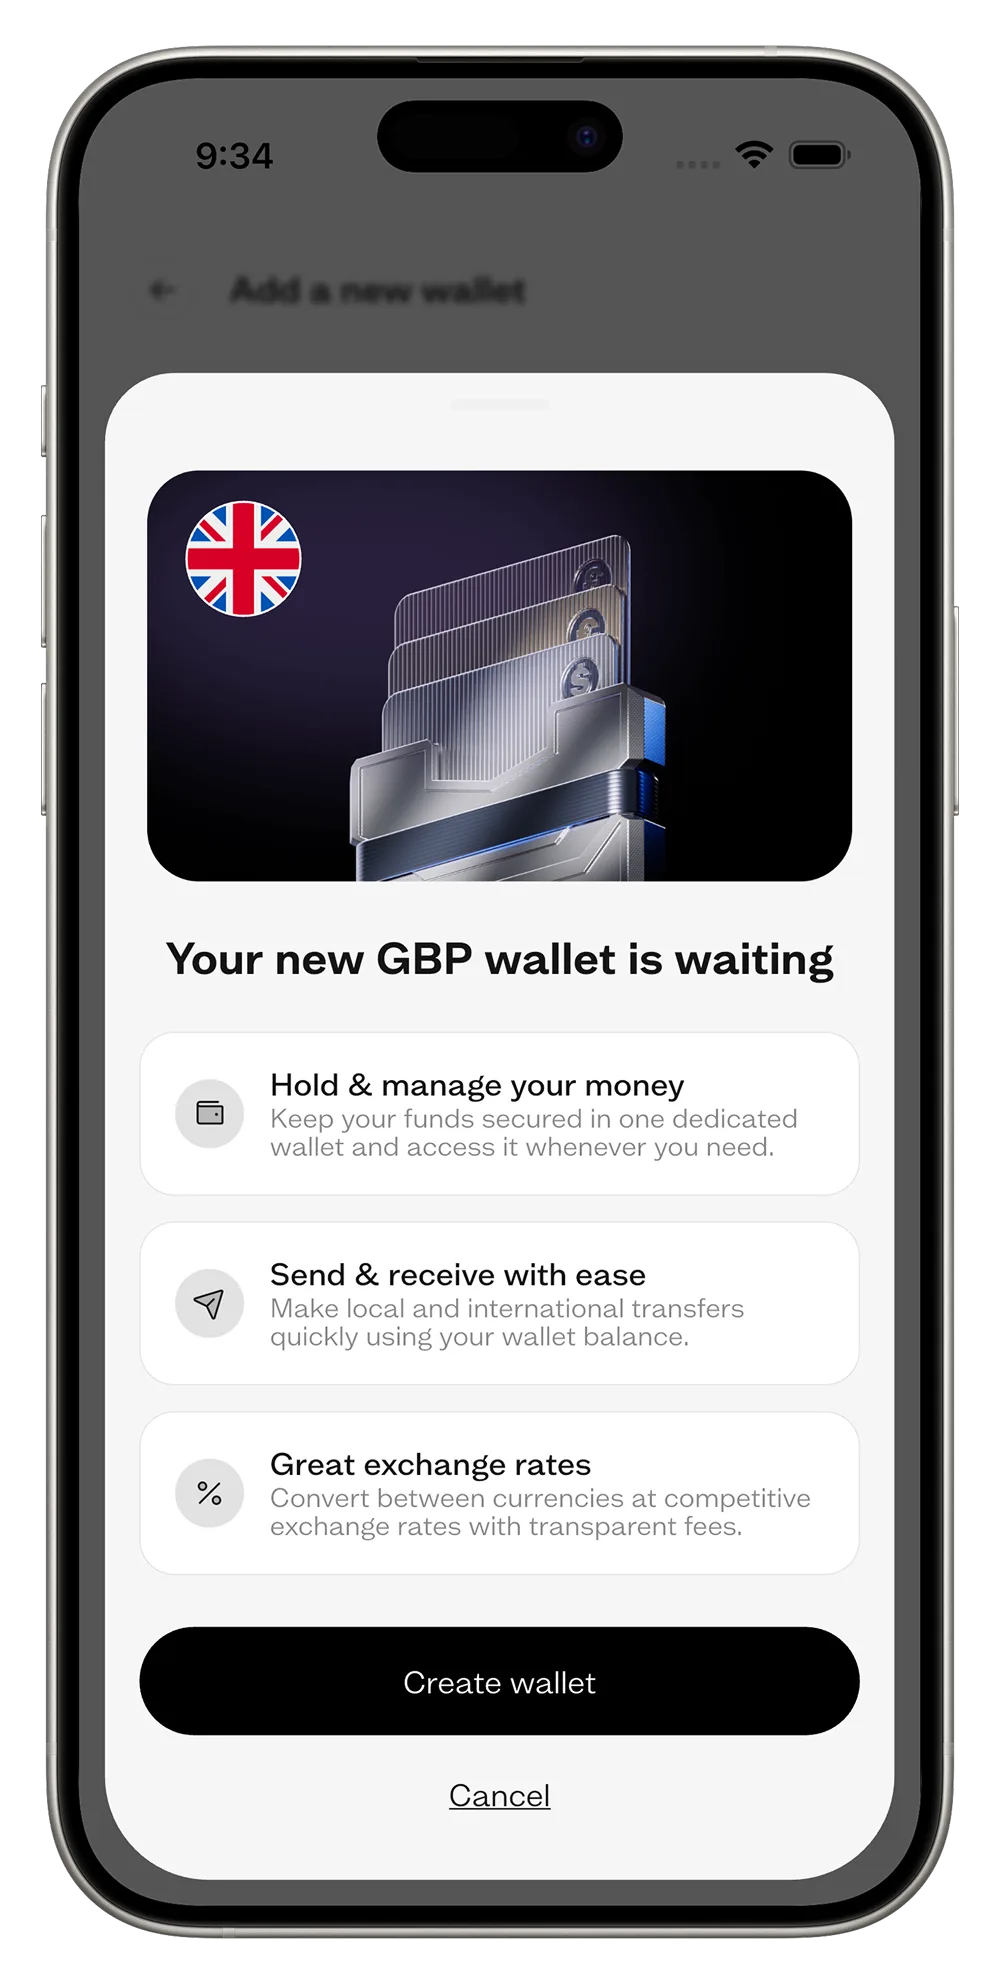
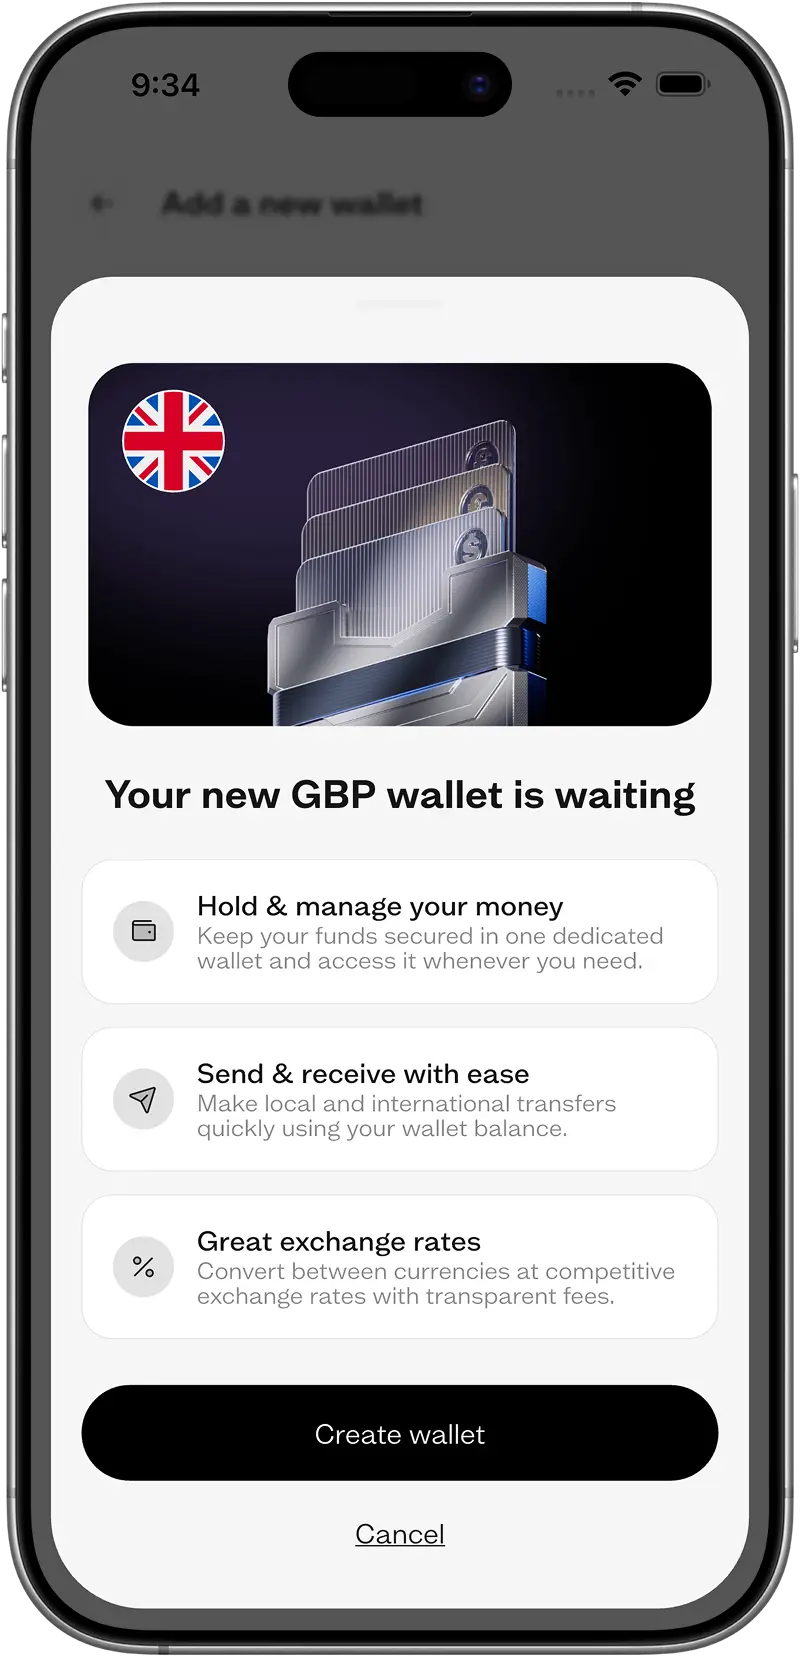
refactor: add interactive PesaReviewCard component

diff --git a/src/styles/typography.css b/src/styles/typography.css
@@ -6,6 +6,7 @@
 	--font-mono: 'Azeret Mono', ui-monospace, 'SF Mono', Menlo, Consolas, monospace;
 	--font-avenir-next: 'Avenir Next', system-ui, sans-serif;
 	--font-averia: 'Averia Serif Libre', serif;
+	--font-mint: 'Mint Grotesk', system-ui, sans-serif;
 
 	--font-size-12: 0.75rem;     /* 12px */
 	--font-size-13: 0.8125rem;   /* 13px */

diff --git a/src/styles/fonts.css b/src/styles/fonts.css
@@ -1,4 +1,11 @@
 @font-face {
+	font-family: 'Mint Grotesk';
+	src: url('/fonts/MintGrotesk-Medium.otf') format('opentype');
+	font-weight: 500;
+	font-style: normal;
+	font-display: swap;
+}
+@font-face {
 	font-family: 'GT Walsheim Pro';
 	src: url('/fonts/gt-walsheim/GT-Walsheim-Pro-Regular.ttf') format('truetype');
 	font-weight: 400;

diff --git a/src/utils/skeleton.ts b/src/utils/skeleton.ts
@@ -1,6 +1,6 @@
 import '@/styles/skeleton.css';
 
-const FADE_OUT_MS = 150;
+const FADE_OUT_MS = 75;
 
 function getMedia(el: HTMLElement): HTMLImageElement | HTMLVideoElement | null {
 	if (el instanceof HTMLImageElement || el instanceof HTMLVideoElement) return el;
